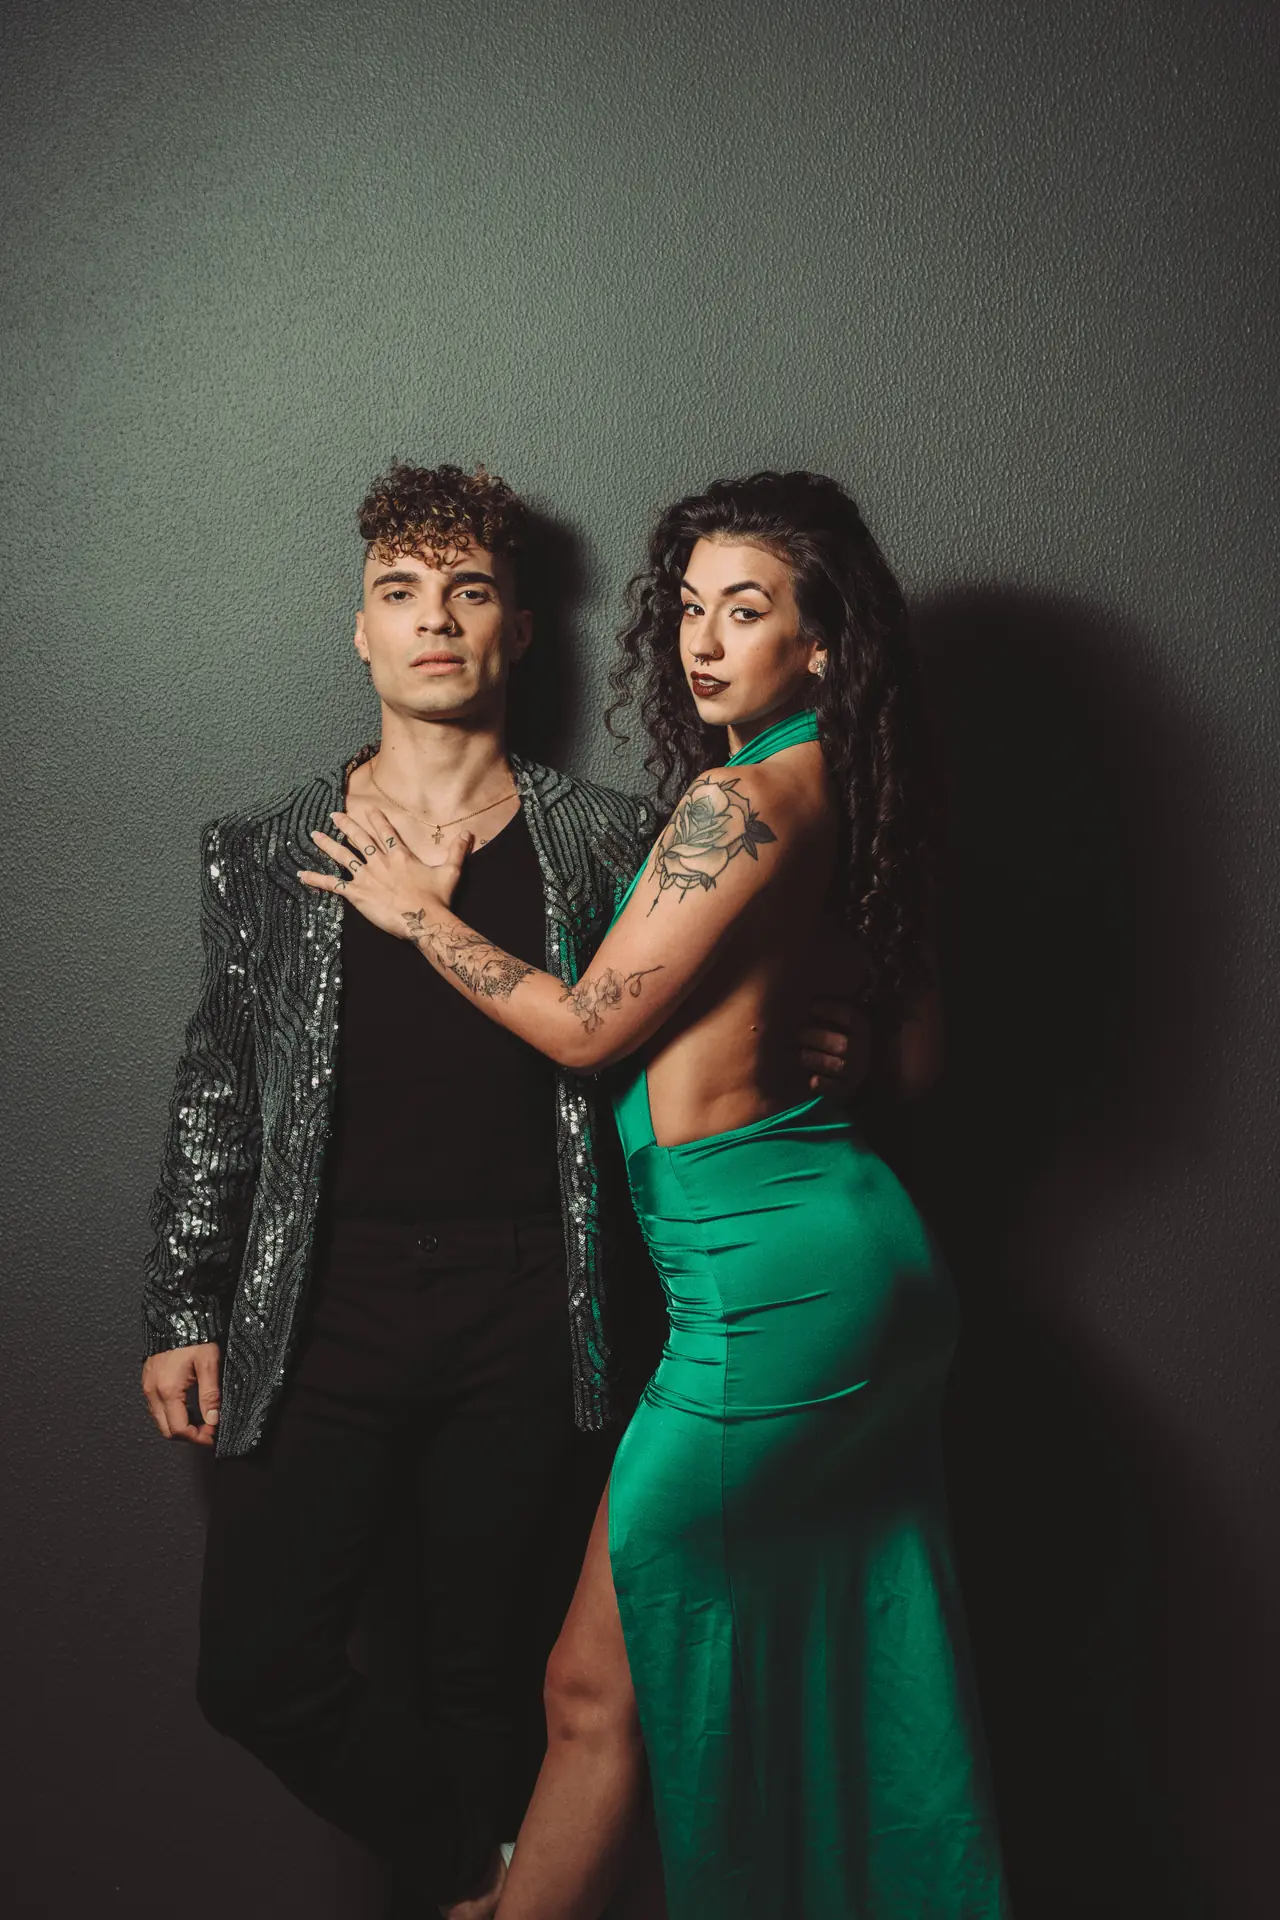
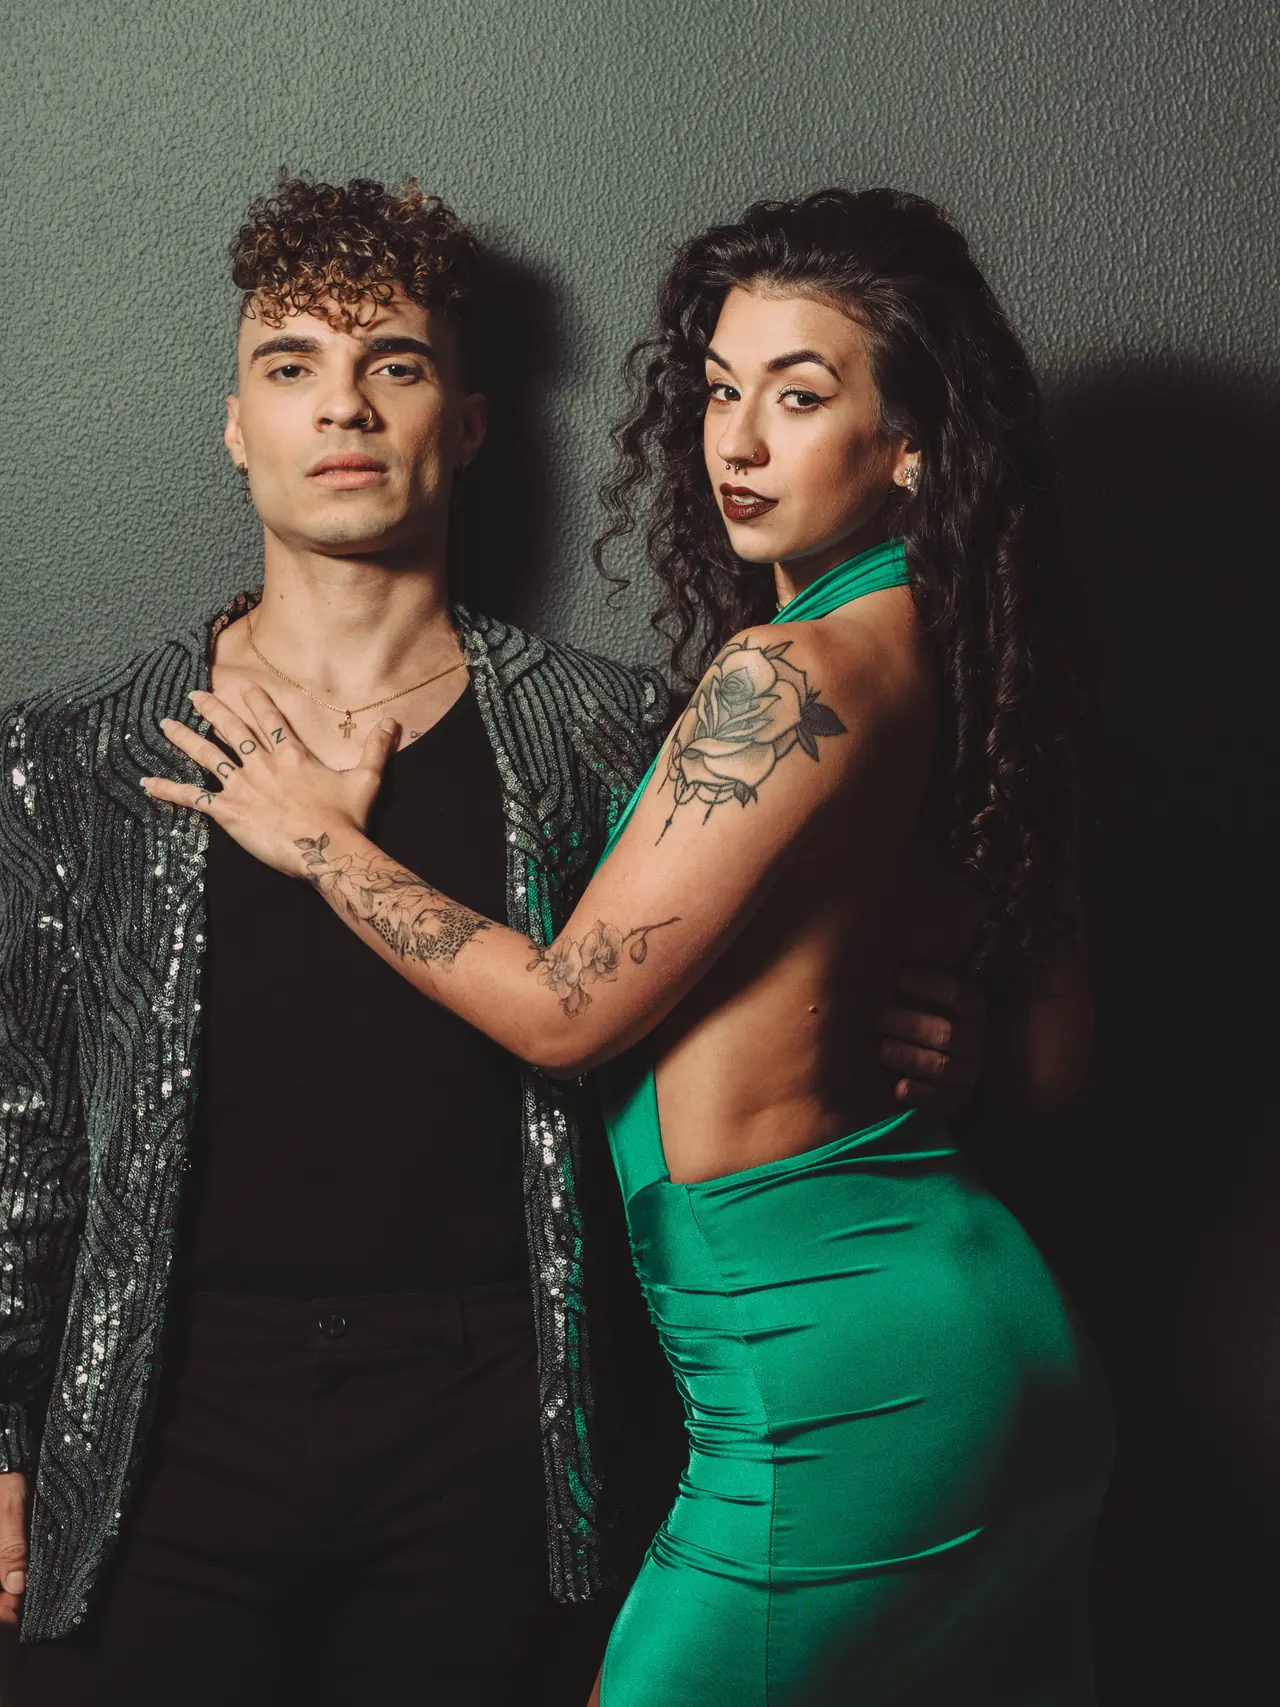
Ajusta recortes das fotos do Kit Mídia e remove fotos antigas sem uso

diff --git a/styles.css b/styles.css
@@ -469,8 +469,8 @@ h2 { font-size: clamp(36px, 5vw, 68px); font-stretch: 112%; line-height: 1.02; }
 .cal-head .section-head { margin-bottom: 0; }
 .cal-photo { width: 220px; aspect-ratio: 3 / 4; overflow: hidden; border-radius: 999px; }
 .cal-photo img { width: 100%; height: 100%; object-fit: cover; object-position: 50% 18%; }
-.contact-photo { aspect-ratio: 21 / 9; overflow: hidden; border-radius: var(--radius-photo); margin-bottom: clamp(40px, 5vw, 64px); }
-.contact-photo img { width: 100%; height: 100%; object-fit: cover; object-position: 50% 58%; }
+.contact-photo { aspect-ratio: 16 / 9; overflow: hidden; border-radius: var(--radius-photo); margin-bottom: clamp(40px, 5vw, 64px); }
+.contact-photo img { width: 100%; height: 100%; object-fit: cover; object-position: 50% 2%; }
 .next-stop { display: flex; flex-wrap: wrap; align-items: baseline; gap: 8px 18px; margin-bottom: 28px; padding: 18px 0; border-block: 1px solid var(--line); }
 .next-label { font-style: italic; color: var(--muted); }
 .next-event { display: flex; flex-wrap: wrap; align-items: baseline; gap: 4px 16px; padding: 0; border: 0; background: none; color: inherit; text-align: left; cursor: pointer; }
@@ -761,3 +761,7 @@ h2 { font-size: clamp(36px, 5vw, 68px); font-stretch: 112%; line-height: 1.02; }
   .playlist img { width: 112px; }
   .footer-cols { flex-direction: column; }
 }
+
+/* Enquadramento das fotos do Kit Mídia */
+.panel img[src*="dj-blue"] { object-position: 50% 12%; }
+.about-photo img { object-position: 50% 30%; }

diff --git a/index.html b/index.html
@@ -21,7 +21,7 @@
   <link rel="preload" as="font" type="font/woff2" href="fonts/anybody-normal-latin.woff2" crossorigin>
   <link rel="preload" as="font" type="font/woff2" href="fonts/newsreader-normal-latin.woff2" crossorigin>
   <link rel="preload" as="image" href="img/hero-duo-800.webp" imagesrcset="img/hero-duo-480.webp 480w, img/hero-duo-800.webp 800w, img/hero-duo-1280.webp 1280w" imagesizes="(max-width: 960px) 76vw, 420px" fetchpriority="high">
-  <link rel="stylesheet" href="styles.css?v=20261127-7">
+  <link rel="stylesheet" href="styles.css?v=20261127-8">
   <script>
     (function () {
       var d = document.documentElement, done = function () { d.classList.add("is-ready"); };
@@ -383,8 +383,8 @@
     </div>
   </footer>
 
-  <script src="data.js?v=20261127-7"></script>
-  <script src="i18n.js?v=20261127-7"></script>
-  <script src="main.js?v=20261127-7"></script>
+  <script src="data.js?v=20261127-8"></script>
+  <script src="i18n.js?v=20261127-8"></script>
+  <script src="main.js?v=20261127-8"></script>
 </body>
 </html>
